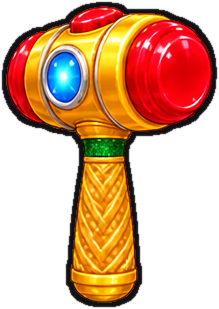
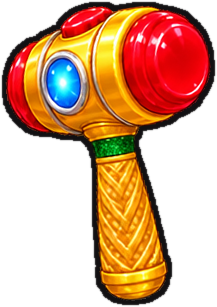
두더지팡 v354: 골드해머 — 지진 분신 안 보이던 것 수정 + 스윙 뿅망치와 동일 + 보관창 보석 글로우
- 지진 분신 골드해머가 안 보이던 버그: 스폰을 보드 가장자리 밖(안 보임) → 보드 안 목표
  근처로, translate(-50%,-24%)로 머리쪽이 두더지 헬멧에 오게, 크기도 메인과 동일(17.5%,
  z-index 25), requestAnimationFrame 대신 강제 reflow 로 트랜지션 확실히 발동.
- 메인 골드해머 스윙: degOffset 제거 → 스프라이트를 +9° 회전해 뿅망치(hammer.png) 축각도에
  맞춰 잘라냄 → lane-hammer 를 손 안 대고 뿅망치와 완전히 같은 궤적·타격점으로 스윙.
  grip 앵커만 스킨용(56/72). (slice-goldhammer.py MAIN_ROT.)
- 보관창: 회전 스트립 폐기(사용자: "게임화면 이미지로") → 정적 goldhammer.png +
  보석(파란불빛)에만 맥동 글로우(.inv-gem-glow). goldhammer-spin.png 삭제.
- lane-hammer: homeMarginTop 파라미터 (골드해머 대기위치 위로 0.5cm).
- 버전 v353 → v354.

Claude-Session: https://claude.ai/code/session_01L141dFqnxAutmM9y1FqaVK

diff --git a/mole/js/hit-fx.js b/mole/js/hit-fx.js
@@ -370,42 +370,41 @@
     }
   }
 
-  // 지진 분신 골드해머 하나 — 가장 가까운 보드 가장자리에서 목표 구멍으로 날아와 내리치고 골드로 소멸.
+  // 지진 분신 골드해머 하나 — 목표 구멍 근처(가장 가까운 가장자리 방향 위쪽)에서 날아와 내리치고 골드로 소멸.
   // onHit = 내리치는 순간 콜백(실제 타격 판정/연출은 game.js 가).
   function quakeClone(boardEl, spriteUrl, xFrac, yFrac, _frameKey, onHit) {
     const el = document.createElement('img');
     el.className = 'quake-clone';
     el.src = spriteUrl;
     el.alt = '';
-    const dl = xFrac, dr = 1 - xFrac, dt = yFrac, db = 1 - yFrac;
-    const m = Math.min(dl, dr, dt, db);
-    let sx = xFrac, sy = yFrac;
-    if (m === dl) sx = -0.12; else if (m === dr) sx = 1.12;
-    else if (m === dt) sy = -0.16; else sy = 1.14;
-    const impactY = Math.max(0, yFrac - 0.11); // 메인 골드해머 대기위치 위로 0.5cm 이동에 맞춰 분신도 같이 위로
+    // 타격점 = 두더지 상단(헬멧 부근). translate(-50%,-24%) 로 하머 머리쪽이 이 점에 오게.
+    const hitY = Math.max(0.06, yFrac - 0.06);
+    const side = xFrac < 0.5 ? 1 : -1;               // 가까운 쪽에서 날아오되 보드 안에서 출발
+    const sx = Math.min(0.94, Math.max(0.06, xFrac + side * 0.12));
+    const sy = Math.max(0.04, hitY - 0.16);
+    const T = (tx, ty, deg) => 'translate(-50%, -24%) rotate(' + deg + 'deg)';
     el.style.left = (sx * 100) + '%';
     el.style.top = (sy * 100) + '%';
-    el.style.transform = 'translate(-50%, -64%) scale(0.62) rotate(-46deg)';
+    el.style.transform = T(0, 0, side > 0 ? -52 : 52);
     el.style.opacity = '0';
     boardEl.appendChild(el);
-    requestAnimationFrame(() => {
-      el.style.transition = 'left 0.16s cubic-bezier(.3,.5,.4,1), top 0.16s cubic-bezier(.3,.5,.4,1), opacity 0.09s, transform 0.16s';
-      el.style.opacity = '0.95';
-      el.style.left = (xFrac * 100) + '%';
-      el.style.top = (impactY * 100) + '%';
-      el.style.transform = 'translate(-50%, -64%) scale(0.62) rotate(-14deg)';
-    });
+    void el.offsetWidth;                              // 초기 상태 확정 → 트랜지션 확실히 발동
+    el.style.transition = 'left 0.17s cubic-bezier(.25,.6,.35,1), top 0.17s cubic-bezier(.25,.6,.35,1), opacity 0.07s, transform 0.17s';
+    el.style.opacity = '1';
+    el.style.left = (xFrac * 100) + '%';
+    el.style.top = (hitY * 100) + '%';
+    el.style.transform = T(0, 0, side > 0 ? -14 : 14);
     setTimeout(() => {
       el.style.transition = 'transform 0.07s ease-in';
-      el.style.transform = 'translate(-50%, -64%) scale(0.62) rotate(26deg)';
+      el.style.transform = T(0, 0, side > 0 ? 22 : -22);
       try { if (onHit) onHit(); } catch (e) { /* 무시 */ }
-    }, 175);
+    }, 185);
     setTimeout(() => {
-      el.style.transition = 'opacity 0.2s, transform 0.2s';
+      el.style.transition = 'opacity 0.22s ease-out, transform 0.22s ease-out';
       el.style.opacity = '0';
-      el.style.transform = 'translate(-50%, -100%) scale(0.85) rotate(26deg)';
-    }, 300);
-    setTimeout(() => el.remove(), 560);
+      el.style.transform = 'translate(-50%, -70%) scale(0.9) rotate(' + (side > 0 ? 22 : -22) + 'deg)';
+    }, 320);
+    setTimeout(() => el.remove(), 600);
   }
 
   // 게임 시작(사용자 제스처) 직후 호출 — 카운트다운 동안 오디오 컨텍스트 + 타격음 파일을 미리 준비.

diff --git a/mole/style.css b/mole/style.css
@@ -1650,11 +1650,11 @@ body { background: var(--lm-page); }
 /* 지진 분신 골드해머 — 가장자리에서 날아와 내리치고 골드로 소멸 (hit-fx.js quakeClone). */
 .quake-clone {
   position: absolute;
-  width: 13%;
+  width: 17.5%;   /* 메인 골드해머(.lane-hammer--gold)와 같은 크기 (사용자 지정) */
   transform-origin: 50% 64%;
   pointer-events: none;
-  z-index: 22;
-  filter: drop-shadow(0 0 5px rgba(120, 200, 255, 0.9)) drop-shadow(0 3px 4px rgba(0, 0, 0, 0.4));
+  z-index: 25;
+  filter: drop-shadow(0 0 6px rgba(120, 200, 255, 0.95)) drop-shadow(0 0 14px rgba(120, 200, 255, 0.55)) drop-shadow(0 3px 4px rgba(0, 0, 0, 0.45));
 }
 /* 지진 먼지 파동 — 기존 링/흙먼지 재사용, 갈색·조금 크게. */
 .hit-fx-ring--quake { width: 30%; border-width: 4px; animation-duration: 0.5s; }
@@ -2359,16 +2359,24 @@ body { background: var(--lm-page); }
 .inv-name { font-size: 0.86rem; font-weight: 800; color: var(--lm-ink); }
 .inv-thumb { height: 88px; display: flex; align-items: center; justify-content: center; }
 .inv-thumb img { max-width: 100%; max-height: 100%; object-fit: contain; }
-/* 골드해머 = 7프레임 스트립을 steps+alternate 로 좌우 로킹 (머리 트월, 보석 항상 정면). */
-.inv-thumb--spin {
-  width: 78px;
-  background-repeat: no-repeat;
-  background-size: 700% 100%;      /* 7프레임 */
-  background-position: 0% 0;
-  animation: inv-gh-spin 1.6s steps(6, jump-none) infinite alternate;
+/* 골드해머 = 게임화면 이미지 그대로, 보석(파란불빛) 부분에만 맥동 글로우. */
+.inv-thumb--gem { position: relative; }
+.inv-gem-glow {
+  position: absolute;
+  left: 41%; top: 30%;                 /* goldhammer.png 보석 위치 근사 (contain 배치 기준) */
+  width: 30%; aspect-ratio: 1;
+  transform: translate(-50%, -50%);
+  border-radius: 50%;
+  background: radial-gradient(circle, rgba(120, 220, 255, 0.95) 0%, rgba(70, 170, 255, 0.55) 35%, rgba(70, 170, 255, 0) 70%);
+  mix-blend-mode: screen;
+  pointer-events: none;
+  animation: inv-gem-pulse 1.6s ease-in-out infinite;
 }
-@keyframes inv-gh-spin { from { background-position: 0% 0; } to { background-position: 100% 0; } }
-@media (prefers-reduced-motion: reduce) { .inv-thumb--spin { animation: none; background-position: 50% 0; } }
+@keyframes inv-gem-pulse {
+  0%, 100% { opacity: 0.5; transform: translate(-50%, -50%) scale(0.82); }
+  50%      { opacity: 1;   transform: translate(-50%, -50%) scale(1.18); }
+}
+@media (prefers-reduced-motion: reduce) { .inv-gem-glow { animation: none; opacity: 0.7; } }
 /* 이미지 아래 능력치 칸 — 무기마다 동일 구성(3줄 표). 값 없으면 "-" (방어력은 미래 무기용). */
 .inv-stat { margin: 6px 0 9px; }
 /* "능력치" 헤더 — 검은 외곽선 + 번개색 글로우 */

diff --git a/mole/js/inventory-screen.js b/mole/js/inventory-screen.js
@@ -15,7 +15,7 @@
               ['2·3타 두더지 연타 확률 10%', '10% burst on 2·3-hit moles'],
               ['-', '-']] },
     { id: 'goldhammer', name: '골드해머', nameEn: 'Gold Hammer', thumb: 'assets/weapons/goldhammer.png',
-      spin: 'assets/weapons/goldhammer-spin.png', spinFrames: 7,
+      gemGlow: true,   // 보석(파란불빛) 부분에 맥동 글로우
       stats: [['Hole 16 → 15', 'Holes 16 → 15'],
               ['주변 두더지 지진 연타 15%', '15% quake — chain-hits nearby moles'],
               ['-', '-']] }
@@ -47,9 +47,8 @@
       WEAPONS.forEach(function (w) {
         var card = document.createElement('div');
         card.className = 'inv-card' + (w.id === cur ? ' inv-card--on' : '');
-        var thumbHtml = w.spin
-          ? '<div class="inv-thumb inv-thumb--spin" style="background-image:url(' + w.spin + ')"></div>'
-          : '<div class="inv-thumb"><img alt="" src="' + w.thumb + '"></div>';
+        var thumbHtml = '<div class="inv-thumb' + (w.gemGlow ? ' inv-thumb--gem' : '') + '">' +
+          '<img alt="" src="' + w.thumb + '">' + (w.gemGlow ? '<span class="inv-gem-glow"></span>' : '') + '</div>';
         card.innerHTML =
           '<div class="inv-head"><span class="inv-name"></span></div>' +
           thumbHtml +

diff --git a/mole/js/game.js b/mole/js/game.js
@@ -982,8 +982,8 @@
     const hammerOpts = { layer: document.getElementById('mole-hammer-layer') };
     if (weapon === 'goldhammer') {
       hammerOpts.sprite = 'assets/weapons/goldhammer.png';
-      hammerOpts.grip = { x: 42, y: 58 };        // 골드해머 스프라이트 손잡이 잡는 점 (67.5° raw 포즈)
-      hammerOpts.degOffset = 20;                 // raw 포즈 → 뿅망치 손잡이 각도 맞춤
+      // 스프라이트가 이미 뿅망치 축각도(~21°)로 잘려있어 degOffset 불필요 → 스윙 궤적·타격점이 뿅망치와 동일.
+      hammerOpts.grip = { x: 56, y: 72 };        // 골드해머 스프라이트 손잡이 잡는 점
       hammerOpts.cssClass = 'lane-hammer--gold'; // 뿅망치보다 1.2배 크게
       hammerOpts.homeMarginTop = '-0.3cm';       // 대기 위치를 기본(0.2cm 아래)에서 위로 0.5cm
     }

diff --git a/mole/sw.js b/mole/sw.js
@@ -3,7 +3,7 @@
 // 폴백 전용으로만 갱신한다. (예전엔 stale-while-revalidate라 배포해도 "다음 실행"에야
 // 반영돼 사용자 체감 대기가 길었음 — 온라인=항상 최신, 오프라인=마지막 캐시로 변경.)
 // SHELL 목록 자체가 바뀔 때만 CACHE 를 올린다.
-const CACHE = 'mole-game-v353';
+const CACHE = 'mole-game-v354';
 
 // 화면별 BGM(audio/bgm-*.mp3)은 v275 부터 SHELL 에 포함 — 기본 켜짐(v272)이라 항상 필요하고,
 // 캐시가 안 돼 있으면 오프라인/느린망에서 재생 실패했음.
@@ -41,7 +41,6 @@ const SHELL = [
   './assets/weapons/goldhammer-0.png',
   './assets/weapons/goldhammer-45.png',
   './assets/weapons/goldhammer-90.png',
-  './assets/weapons/goldhammer-spin.png',
   './assets/hippo/happy1.png',
   './assets/hippo/happy2.png',
   './assets/hippo/happy3.png',

diff --git a/mole/index.html b/mole/index.html
@@ -165,7 +165,7 @@
       </div>
 
       <!-- 시작 UI = 카톡풍 대화 (폰 화면 = 보드 안) -->
-      <div id="build-tag" aria-hidden="true">v353</div>
+      <div id="build-tag" aria-hidden="true">v354</div>
       <div id="board-start" class="board-panel board-start">
 
         <!-- 첫 방문: 전체 인트로 대화 -->

diff --git a/mole/scripts/slice-goldhammer.py b/mole/scripts/slice-goldhammer.py
@@ -1,10 +1,8 @@
 # 골드해머(지진 무기) 스프라이트 — 소스 회전 시트(~/Desktop/특수망치.png, 16각도 5+5+6)에서.
-#   출력  assets/weapons/goldhammer.png       (메인 스윙 = 67.5° raw. lane-hammer degOffset 로 각도 맞춤)
+#   출력  assets/weapons/goldhammer.png       (메인 스윙 = 67.5° 를 +9° 회전해 뿅망치 축각도(~21°)에 맞춤)
 #         assets/weapons/goldhammer-0.png     (0°  = 지진 분신 — ✱·0·# 칸)
 #         assets/weapons/goldhammer-45.png    (45° = 지진 분신 — 숫자칸)
 #         assets/weapons/goldhammer-90.png    (90° = 지진 분신 — 연락처·키패드·최근기록)
-#         assets/weapons/goldhammer-spin.png  (보관창 회전용 = 7프레임 가로 스트립.
-#            [67.5거울, 45거울, 22.5거울, 0, 22.5, 45, 67.5] — 손잡이 축 정렬. CSS steps+alternate 로 좌우 로킹)
 #
 # 처리 = 최소한. 알파 임계로 청록 글로우만 컷 → keep_largest(라벨 탈락) → 알파 스무딩 →
 #   얇은 검은 외곽선(OUTLINE px, 바깥에만 — 아트 내부 안 건드림).
@@ -69,8 +67,8 @@ def outline(cell, px_w=OUTLINE):
     return out.crop(bb) if bb else out
 
 
-def pose(col, do_outline=True):
-    """소스 col(0~4, row0)의 포즈 하나 → 정리된 RGBA (트림됨)."""
+def pose(col, do_outline=True, rot=0):
+    """소스 col(0~4, row0)의 포즈 하나 → 정리된 RGBA (트림됨). rot = 추가 회전(CCW+)."""
     x0 = int(col * CELL_W)
     cell = im.crop((max(0, x0 - 4), 0, min(W, x0 + int(CELL_W) + 6), min(H, int(ROW_H * 1.22)))).convert('RGBA')
     r, g, b, a = cell.split()
@@ -83,61 +81,27 @@ def pose(col, do_outline=True):
     bb = cell.split()[3].getbbox()
     if bb:
         cell = cell.crop(bb)
+    if rot:
+        cell = cell.rotate(rot, resample=Image.BICUBIC, expand=True)
+        bb = cell.split()[3].getbbox()
+        if bb:
+            cell = cell.crop(bb)
     if do_outline:
         cell = outline(cell)
     return cell
 
 
-def grip_point(cell):
-    """손잡이 하단 중심 (x, y) — 회전 축 정렬용."""
-    w, h = cell.size
-    px = cell.load()
-    pts = [(x, y) for y in range(h) for x in range(0, w, 2) if px[x, y][3] > 140]
-    pts.sort(key=lambda p: -p[1])
-    lo = pts[:max(1, len(pts) // 10)]
-    return sum(p[0] for p in lo) / len(lo), max(p[1] for p in lo)
-
-
 os.makedirs(OUT_DIR, exist_ok=True)
 
 # --- 개별 포즈 (메인 + 분신) ---
+# 메인(goldhammer.png)만 +9° CCW 로 회전 → grip→head 축을 뿅망치(hammer.png, ~21°)에 맞춤.
+# 그래야 lane-hammer 를 degOffset 없이(스윙 궤적·타격점 동일) 그대로 쓸 수 있다.
+MAIN_ROT = {'goldhammer.png': 9}
 for col, name in POSES:
-    cell = pose(col)
+    cell = pose(col, rot=MAIN_ROT.get(name, 0))
     s = TARGET_MAX / max(cell.size)
     if s < 1:
         cell = cell.resize((round(cell.width * s), round(cell.height * s)), Image.LANCZOS)
     p = os.path.join(OUT_DIR, name)
     cell.save(p, optimize=True)
     print('saved', p, cell.size)
-
-# --- 보관창 회전 스트립 (7프레임, 좌우 로킹) ---
-base = {a: pose(c) for a, c in [(0, 0), (22.5, 1), (45, 2), (67.5, 3)]}
-frames = [
-    base[67.5].transpose(Image.FLIP_LEFT_RIGHT),
-    base[45].transpose(Image.FLIP_LEFT_RIGHT),
-    base[22.5].transpose(Image.FLIP_LEFT_RIGHT),
-    base[0],
-    base[22.5],
-    base[45],
-    base[67.5],
-]
-grips = [grip_point(f) for f in frames]
-maxw = max(f.width for f in frames)
-maxh = max(f.height for f in frames)
-# 셀 = 손잡이 하단이 (cellW/2, cellH - margin) 에 오도록 넉넉히
-margin = 10
-cellw = maxw + 40
-cellh = maxh + margin + 10
-strip = Image.new('RGBA', (cellw * len(frames), cellh), (0, 0, 0, 0))
-for i, (f, (gx, gy)) in enumerate(zip(frames, grips)):
-    ox = i * cellw + round(cellw / 2 - gx)
-    oy = round(cellh - margin - gy)
-    strip.alpha_composite(f, (ox, oy))
-# 다운스케일 (셀 높이 ~200)
-th = 200
-if cellh > th:
-    sc = th / cellh
-    strip = strip.resize((round(strip.width * sc), round(strip.height * sc)), Image.LANCZOS)
-p = os.path.join(OUT_DIR, 'goldhammer-spin.png')
-strip.save(p, optimize=True)
-print('saved', p, strip.size, '(%d frames, cell %dx%d)' % (len(frames), strip.width // len(frames), strip.height))
